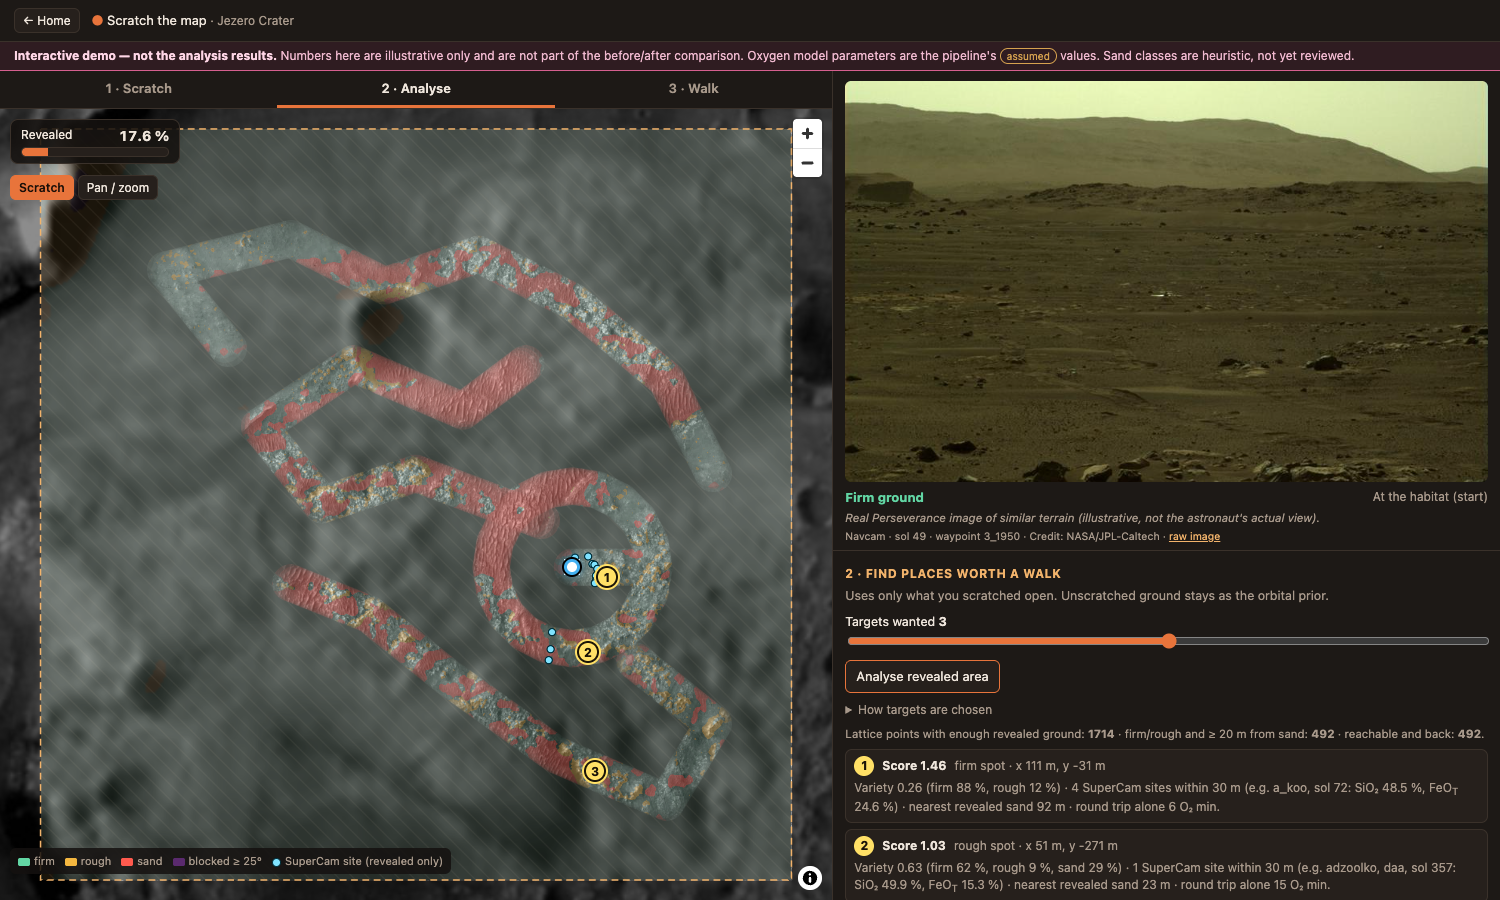
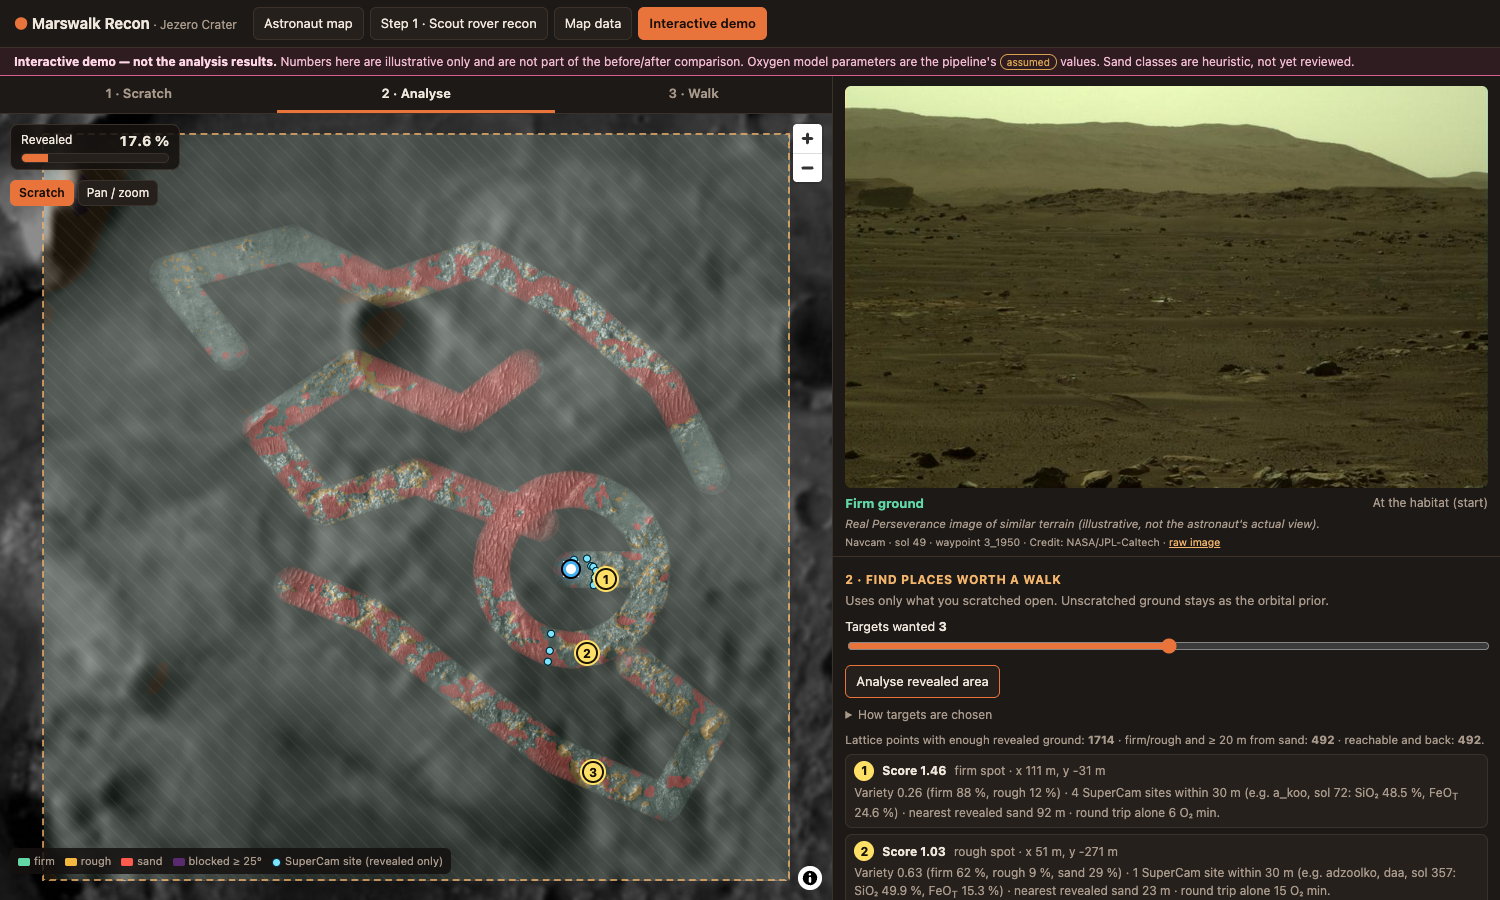
Scratch demo: SI notice (file headers, 'si' key in data JSON, page text) and the shared top bar with the demo marked current
Claude-Session: https://claude.ai/code/session_01PJvXnofSRBXUdNFScTHsf8

diff --git a/web/scratch/index.html b/web/scratch/index.html
@@ -1,4 +1,5 @@
 <!doctype html>
+<!-- SI: written by an AI coding agent (Anthropic Claude via Claude Code) under the team's direction; see docs/AI_USE.md -->
 <html lang="en">
 <head>
 <meta charset="utf-8">
@@ -10,9 +11,14 @@
 <link rel="stylesheet" href="scratch.css">
 </head>
 <body>
-<header id="sTop">
-  <a class="btn sm" href="../index.html">&larr; Home</a>
-  <div class="brand"><span class="logo">&#9679;</span> Scratch the map <span class="muted">· Jezero Crater</span></div>
+<header id="top">
+  <a class="brand" href="../index.html"><span class="logo">&#9679;</span> Marswalk Recon <span class="muted">· Jezero Crater</span></a>
+  <nav id="pages" aria-label="Pages">
+    <a class="btn" href="../index.html">Astronaut map</a>
+    <a class="btn" href="../recon.html">Step 1 · Scout rover recon</a>
+    <a class="btn" href="../data.html">Map data</a>
+    <a class="btn demo active" href="./" aria-current="page">Interactive demo</a>
+  </nav>
 </header>
 <div id="demoBanner" role="note"><b>Interactive demo — not the analysis results.</b> Numbers here are illustrative only and are not part of the before/after comparison. Oxygen model parameters are the pipeline's <span class="badge assumed">assumed</span> values. Sand classes are heuristic, not yet reviewed.</div>
 <main id="sMain">
@@ -100,6 +106,7 @@
         </details>
       </div>
       <p class="hint foot">Data: CTX and HiRISE orthomosaics (NASA/JPL/MSSS, NASA/JPL/UArizona via USGS Mars 2020 TRN), terrain classes from the team pipeline (HiRISE DTM, 2 m), SuperCam LIBS oxides (PDS Geosciences), Perseverance raw images (NASA/JPL-Caltech). Habitat at Octavia E. Butler Landing <span class="badge assumed">assumed</span>.</p>
+      <p class="hint si">SI: this page and its code were written, and its derived data files (data/*.json, data/terrain.bin) generated by code written, by an AI coding agent (Anthropic Claude via Claude Code) under the team's direction; see docs/AI_USE.md. Perseverance photos are unmodified NASA/JPL-Caltech images.</p>
     </div>
   </section>
 </main>

diff --git a/web/scratch/scratch.css b/web/scratch/scratch.css
@@ -1,7 +1,6 @@
+/* SI: written by an AI coding agent (Anthropic Claude via Claude Code) under the team's direction; see docs/AI_USE.md */
 /* Scratch demo page. Builds on ../style.css tokens (--bg, --panel, --accent ...). */
 html, body { height: 100%; }
-body { display: flex; flex-direction: column; background: var(--bg); }
-header#sTop { display: flex; align-items: center; gap: 12px; padding: 8px 14px; background: var(--panel); border-bottom: 1px solid var(--line); flex: none; }
 #demoBanner { flex: none; background: rgba(214,95,143,.14); border-bottom: 1px solid var(--simulated); color: #f0b9cf; font-size: 12px; padding: 5px 14px; }
 #demoBanner b { color: #ffd6e6; }
 main#sMain { flex: 1; min-height: 0; height: auto; display: grid; grid-template-columns: minmax(0, 1.25fr) minmax(340px, 1fr); }

diff --git a/web/scratch/scratch.js b/web/scratch/scratch.js
@@ -1,3 +1,4 @@
+// SI: written by an AI coding agent (Anthropic Claude via Claude Code) under the team's direction; see docs/AI_USE.md
 /* Scratch the map — interactive demo (NOT the analysis results). Plain JS, no build step.
    1 Scratch: a blurry CTX cover over the Jezero AOI is erased where the user drags, revealing HiRISE imagery and the
      HiRISE reference terrain classes (2 m). 2 Analyse: simple, explainable rules on the revealed cells only.

diff --git a/web/scratch/build_data.py b/web/scratch/build_data.py
@@ -1,3 +1,4 @@
+# SI: written by an AI coding agent (Anthropic Claude via Claude Code) under the team's direction; see docs/AI_USE.md
 """Scratch demo: build the small derived files used by scratch.html (interactive demo only, not the analysis).
 
 Run from app/:  .conda-env/bin/python web/scratch/build_data.py
@@ -8,6 +9,7 @@ Writes: web/scratch/data/terrain.bin   1200 x 1200 uint8, row 0 = north (y = 140
                                        (0 firm, 1 rough, 2 sand, 3 blocked; sand classes heuristic, not yet reviewed)
         web/scratch/data/supercam.json SuperCam LIBS sites in the AOI (placed on the rover's last waypoint
                                        at or before the sol, same rule as spikes/s3_report.py), mean oxides
+        (terrain.bin is raw bytes and carries no metadata; its SI notice is in this header and on the page)
         web/scratch/data/views.json    hand-picked Perseverance images per terrain class of the 22 m window
                                        around the waypoint where they were taken (illustrative only)
 """
@@ -21,6 +23,7 @@ import numpy as np
 APP = Path(__file__).resolve().parents[2]
 OUT = APP / "web/scratch/data"
 OUT.mkdir(parents=True, exist_ok=True)
+SI = "SI: written by an AI coding agent (Anthropic Claude via Claude Code) under the team's direction; see docs/AI_USE.md"
 AOI = (-1700, -1000, 700, 1400)
 RES = 2.0
 
@@ -65,7 +68,7 @@ for s in sites.values():
     out.append({"id": s["id"], "x": s["x"], "y": s["y"], "lon": s["lon"], "lat": s["lat"], "n_shots": s["n"],
                 "targets": sorted(s["targets"]), "sols": sorted(s["sols"]), "mean_wt_pct": mean})
 out.sort(key=lambda s: s["sols"][0])
-json.dump({"label": "measured (oxides); location derived",
+json.dump({"si": SI, "label": "measured (oxides); location derived",
            "location_rule": "rover's last waypoint at or before the sol of the shot (site/drive not used); precision = waypoint, LIBS standoff median ~3 m",
            "source": "Mars 2020 SuperCam LIBS major-oxide table (supercam_libs_moc.csv), PDS Geosciences; calibration targets excluded",
            "oxides": OX, "sites": out}, open(OUT / "supercam.json", "w"), indent=0)
@@ -100,7 +103,7 @@ for k, idx in CHOSEN.items():
                          "sol": im["sol"], "waypoint": w["id"], "x": w["x"], "y": w["y"],
                          "class_share_22m": round(fr, 2), "credit": im.get("credit") or P["credit_default"],
                          "page": im.get("page"), "heading_deg": (im.get("view") or {}).get("heading_deg")})
-json.dump({"label": "measured images; class assignment derived; use illustrative",
+json.dump({"si": SI, "label": "measured images; class assignment derived; use illustrative",
            "rule": "terrain class = majority HiRISE reference class in the 22 m window around the waypoint; Navcam/Front Hazcam only; picked by eye for a forward view",
            "views": views}, open(OUT / "views.json", "w"), indent=1)
 print({k: len(v) for k, v in views.items()}, "supercam sites", len(out))

diff --git a/web/scratch/screenshot.py b/web/scratch/screenshot.py
@@ -1,3 +1,4 @@
+# SI: written by an AI coding agent (Anthropic Claude via Claude Code) under the team's direction; see docs/AI_USE.md
 """Headless screenshots of the scratch demo (scratch/index.html).
 Run from app/:  .conda-env/bin/python web/scratch/screenshot.py [--url http://127.0.0.1:8765]
 -> web/scratch/screenshots/{01_scratching,02_analysed,03_playing,04_mobile}.png; prints console errors."""
